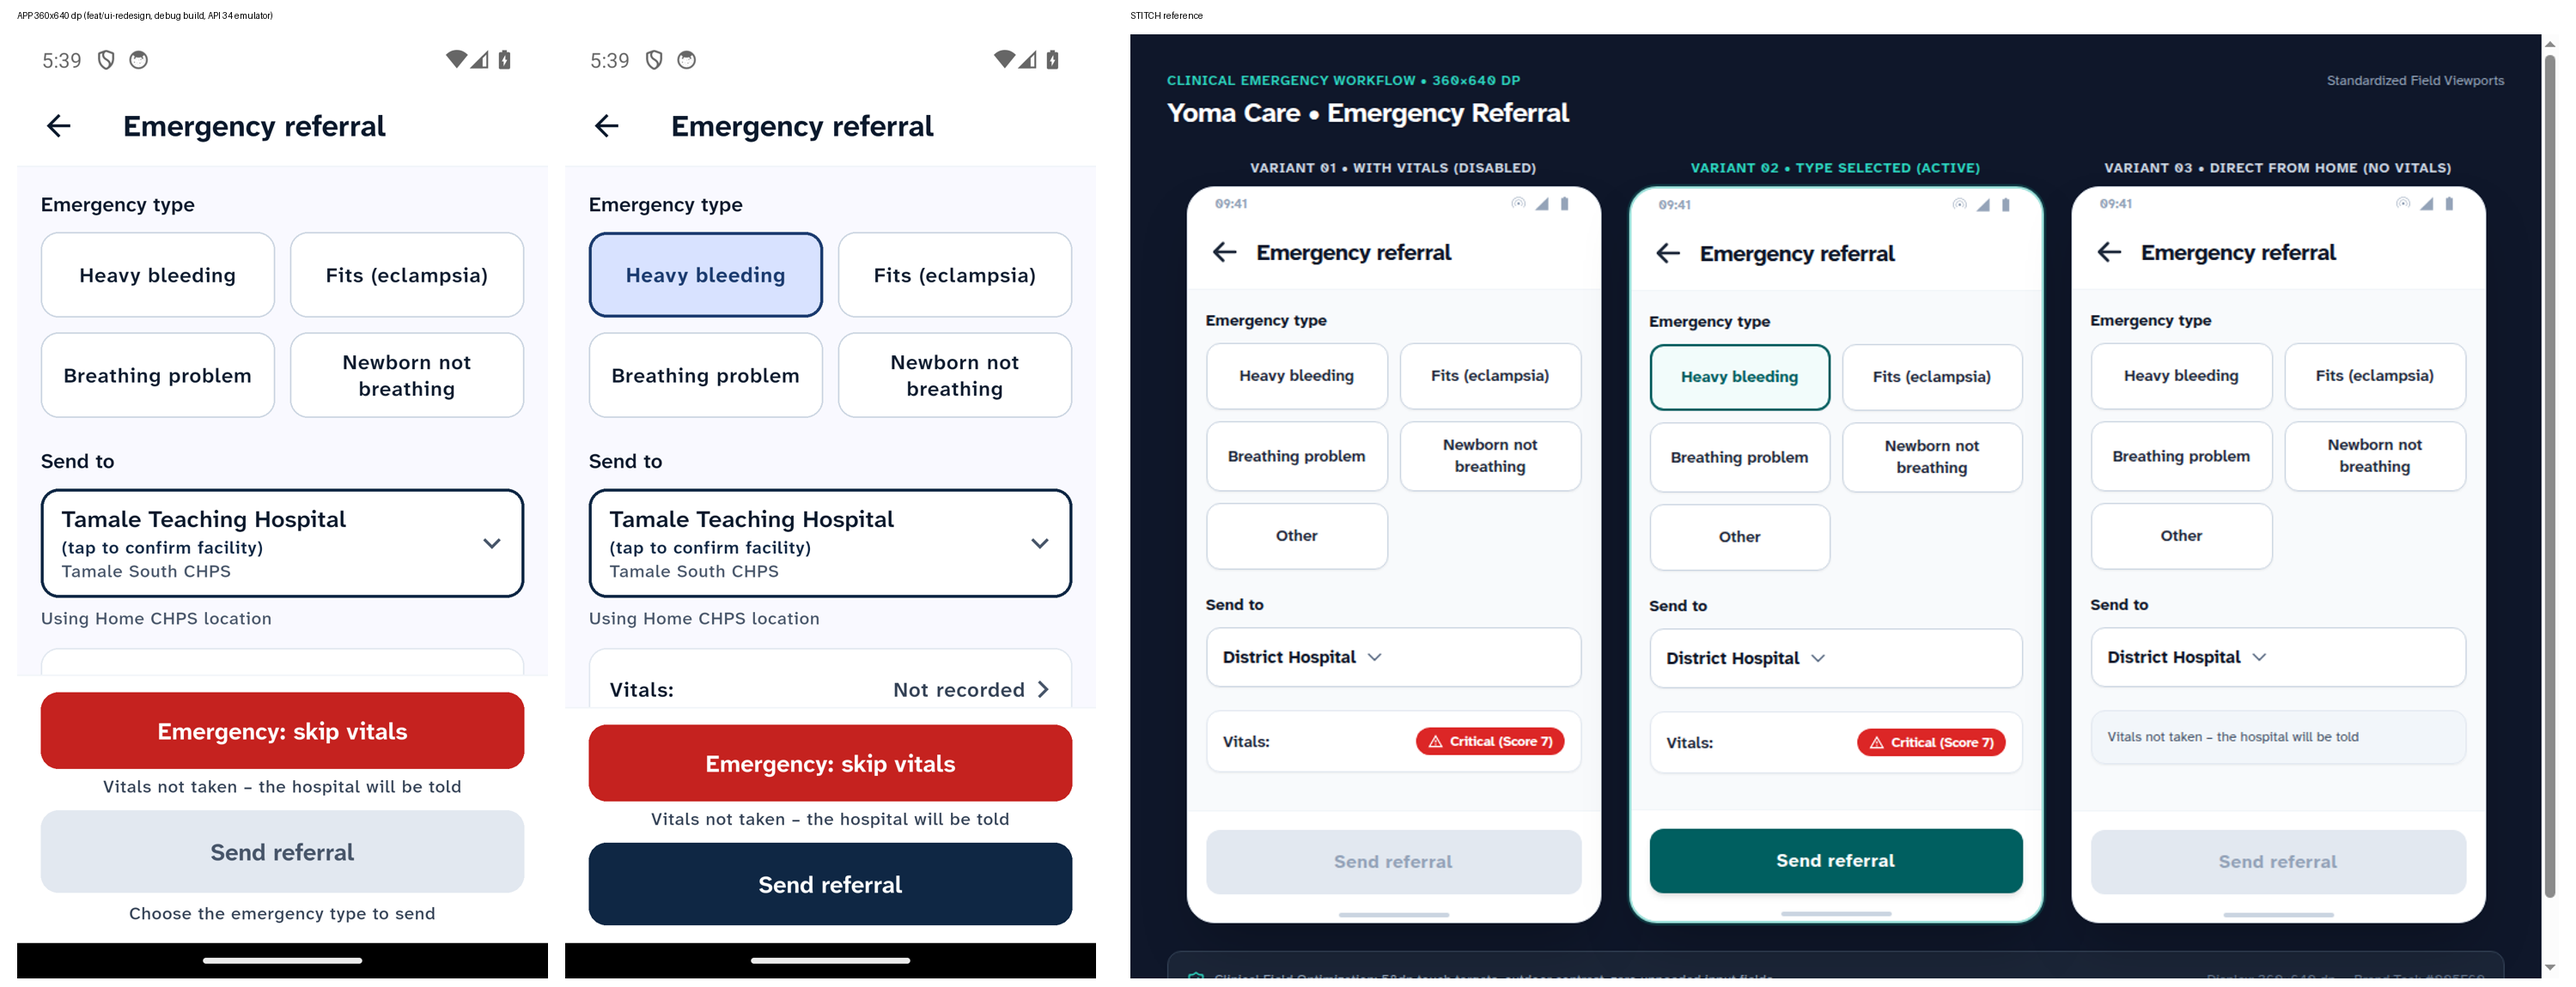
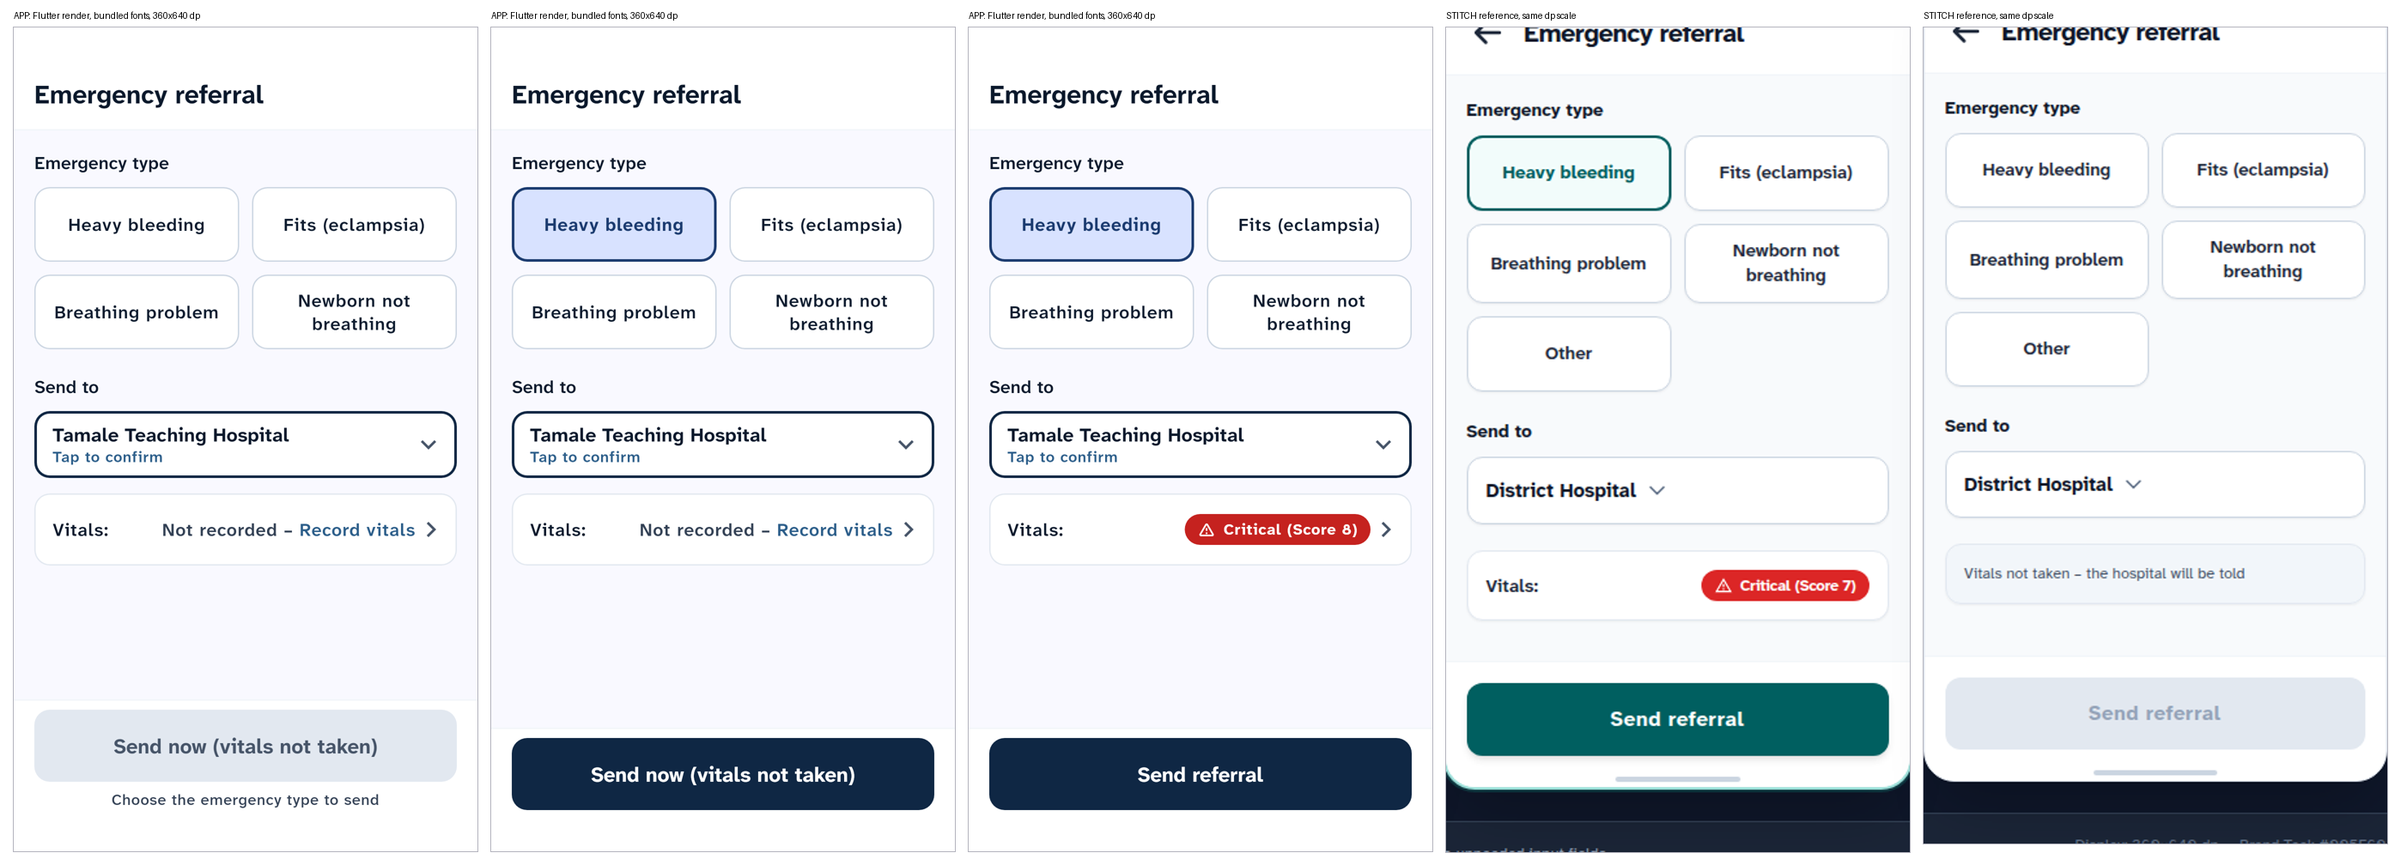
docs(ui): round 5 report and equal-scale fidelity side-by-sides
Side-by-sides for Home (both modes), Recording, Record vitals, the
referral form, Result, dispatch status and the breathing screens, with
each Stitch phone at the same dp scale as the app. App images are
Flutter renders with the bundled fonts at 360x640 dp: the emulator
crashed on cold boot this round (documented).

diff --git a/docs/audit/UI_REDESIGN.md b/docs/audit/UI_REDESIGN.md
@@ -813,3 +813,234 @@ Same branch. Flutter skills used: `dart-flutter:flutter-build-responsive-layout`
 4. "Call a driver instead" during the cascade: confirm step or hide?
 5. Risk words Critical / Elevated / Stable: confirm with clinical leads.
 6. Recording arc: time remaining (built) or time elapsed?
+
+## Round 5: round-4 screens fixed, decisions, fidelity on the remaining screens
+
+Same branch, with every commit pushed. Flutter skills used:
+
+- `dart-flutter:flutter-build-responsive-layout`
+- `flutter-fix-layout-issues`
+- `dart-use-pattern-matching`
+- `flutter-add-widget-test`
+- `dart-run-static-analysis`
+- `flutter-apply-architecture-best-practices`
+
+Commits, in order:
+
+| Step | Commit | What |
+|---|---|---|
+| 0 | `88f4688` | Record vitals: compact cards, count of required vitals, first-gap jump |
+| 0 | `36d903a` | Referral form: one bottom button, one-line Send to, vitals row link |
+| 0 | `be3afa1` | Home: heart-pulse icon |
+| 0 | `e1b2cc7` | Recording: rings reach the edge with breathing; test shot tool |
+| 1.1 | `665c763` | Acoustic Home: three actions; Not screened |
+| 1.2 | `94b4756` | Keep checking after FAILED until the late-claim window ends |
+| 1.3 | `8a1f9d9` | "Did a driver agree to come?" |
+| 1.4 | `6676785` | Sign-off sheet: risk words |
+| 2 | `c242e43`, `f169428`, `59b00d1` | Result, dispatch status and breathing fidelity; accessibility suite |
+| 3 | this commit | Side-by-sides, report |
+
+### Step 0: typography (no theme change, and why)
+
+The brief said the type scale was far larger than the designs. Measured at the same dp scale,
+it is not. The theme's sizes already equal the Clinical Field Resilience scale and the Stitch
+code:
+
+| Element | Stitch code | App theme |
+|---|---|---|
+| App bar title | `text-xl` 20 / bold | 20 / bold |
+| Card label (vitals, sections) | `text-base` 16 / semibold | 16 / w600 |
+| Buttons | `label-lg` 16 / bold | 16 / bold |
+| Chips | `text-[14px]` / semibold | 14 / w600 |
+| Small links ("Not measured") | `text-xs` 12 | 12 |
+
+The impression came from round 4's side-by-sides. That composer scaled both images to the same
+**pixel height**. The Record vitals reference is 360×1400 px, so it was drawn at about 44% of
+the app's scale and every app text looked twice as big.
+
+Every side-by-side in this round puts the Stitch phone at the **same dp scale** as the app
+(360 dp → 540 px). Real differences found that way were fixed where they were:
+
+- the vitals cards;
+- the result-card text, which was 16/14 against the design's 14/12;
+- the dispatch banner, which was 16 against the design's 14.
+
+Tap targets stay 48 dp through padding.
+
+### Step 0: Record vitals, form, Home, Recording
+
+**Record vitals:**
+
+- Label, a two-line "Not measured" and the value sit on one row. All six vitals show at
+  360×640; only the second row of consciousness chips needs about 68 dp of scroll.
+- On narrow screens or with large text, the layout is stacked (as before).
+- "See result – N left" counts blood pressure (one item), heart rate, breathing rate,
+  temperature and consciousness, so it shows 5 when nothing is filled. SpO₂ is never counted,
+  shows "(optional)", and may be left blank.
+- Blood pressure has one card and one "Not measured" for both fields. An empty pair gives one
+  message.
+- The "Normal adult band…" helper is gone. "From device ›" is a small link in the Heart rate
+  card.
+- See result stays enabled. With gaps, it scrolls to the first missing or wrong vital, marks
+  its card red and announces it by name (for example, "Consciousness missing. Choose a level
+  or tick Not measured.").
+- Form's own generic first-error announcement is switched off for this form, so a screen
+  reader hears one message.
+- Tests: `test/vitals_required_test.dart`.
+
+**Referral form:**
+
+- There is one bottom button: "Send referral" with vitals, or "Send now (vitals not taken)"
+  without. The second uses the existing skip-vitals path and hospital notice. The red button
+  is gone.
+- The button is disabled until a type is chosen.
+- The vitals row reads "Not recorded – Record vitals ›".
+- Send to is one line plus a small "Tap to confirm" until confirmed; the confirm behaviour is
+  unchanged. The origin line and the CHPS name are off the form; the picker still shows the
+  origin.
+- Tests: `test/referral_form_layout_test.dart`. Type chips, Send to and the vitals row scroll
+  fully clear of the bottom area at 360 dp and at 320 dp with 130% text.
+
+**Home:** the design's Lucide heart-pulse for Record vitals.
+
+**Recording:**
+
+- Before, the rings only reached the box edge at about −5 dBFS, so with real breathing they
+  stayed near the circle. They also faded to 8%.
+- Now:
+  - −55 to −20 dBFS spans the level;
+  - the rings travel the full way from about −30 dBFS, as in pulse frame 3;
+  - silence keeps them near the circle, as in frame 1;
+  - the faintest ring is about 18%.
+- The silence hint threshold is unchanged at −50 dBFS.
+- Tested with a fake microphone stream (`test/recording_pulse_test.dart`).
+- Audio was not played into an emulator microphone: the emulator would not start this round
+  (see Step 3).
+
+### Step 1: decisions
+
+1. **Acoustic Home** shows Emergency referral, Check breathing, Record vitals, in that order.
+   This order follows the decision; the design's Screen A puts Record vitals second.
+   - A referral without a breathing check sends `ai_screen_result` `NOT_SCREENED`. That covers
+     a referral straight from Home and one via Record vitals from Home.
+   - The form says "No breathing check – the hospital will be told".
+   - The hospital SMS adds "Breathing check: not screened" (`tests/test_not_screened.py`).
+   - MOEWS-only builds are unchanged.
+2. **After FAILED:**
+   - `GET /dispatch/{id}` returns `late_claim_until`: `initiated_at` plus
+     `LATE_CLAIM_WINDOW_MINUTES` (45), in UTC. The orchestrator now uses the same function to
+     accept late claims.
+   - Until that time, the status screen checks every 30 s and says "Still checking: a driver
+     can accept until 12:42".
+   - A late acceptance shows as accepted ("Accepted after the alerts had stopped").
+   - After the window it stops.
+3. **Call a driver instead:**
+   - There is no confirm before the call.
+   - A tel: call from the status screen before any driver accepted arms one question for when
+     the CHO returns to the app: "Did a driver agree to come?". Yes runs the existing cancel;
+     No keeps waiting.
+   - It is asked once per call.
+4. **Critical / Elevated / Stable** is now question 6 in `docs/PARAMETERS_SIGNOFF.md`.
+
+### Step 2: fidelity on the remaining screens
+
+Fixed:
+
+- **Result:**
+  - Buttons are in sentence case.
+  - Stable's secondary button is "Confirm referral".
+  - Stable lists BP, heart rate, breathing rate and temperature "– normal" with grey dots.
+  - The Incomplete card has no subtitle.
+  - Missing systolic and diastolic are one "Blood pressure" row.
+- **Dispatch status:**
+  - With no driver, not sent yet or no connection, the banner and the Call/SMS rows come
+    first.
+  - Rows are compact: name and role on the left, Call and SMS on the right, drivers first,
+    then the hospital.
+  - The current step is in the tertiary colour with a halo.
+  - The driver is shown in a bordered card.
+  - There is more space between steps.
+  - The spinner line and the raw "Request: …" id are removed.
+  - The banner text is 14 bold.
+- **Breathing:**
+  - The dashed border on "Couldn't tell" was painted behind the white fill and never showed;
+    it is now drawn in front.
+  - Card text is at the design's sizes.
+  - "settings" is lower case.
+- **Copy:** no raw codes, plurals or dates were found on these screens beyond the "Request:"
+  id, which is removed.
+
+Differences left on purpose. Each is a decision above or an earlier documented correction:
+
+1. **Colour:** the design-system palette (round 4) instead of the renders' teal, and the
+   design-system amber.
+2. **MOEWS name** under the risk word, and the disclaimer line (round 1, for CHO
+   familiarity and safety).
+3. **Critical/Elevated:** the design's bottom area repeats the Why list (a design bug); the app
+   has its buttons there.
+4. **Timeline wording:**
+   - Future-tense labels and the darker future labels (round 3, contrast and wording rules).
+   - Times follow the phone's 12/24-hour setting. The shots show "9:12 AM" because the
+     renderer's locale is 12-hour.
+5. **Dispatch extras:**
+   - Ref, "Going to: <hospital>" (the destination changes on a diversion), "Back to Home"
+     (the design gives no way back) and "Cancel referral" (round-3 brief).
+   - "Contacts last updated" stays, because the rows are a cached copy.
+6. **Analysing subtitle:** "You can keep using the phone." instead of "Analyzing breath rate
+   and sound patterns". The model does not measure breath rate, so the design's line would
+   claim something false.
+7. **Breathing result footer:** the Ready screen's "This is advice only…" instead of "Field
+   guidance: Results do not replace nurse auscultation" (CHOs are not nurses).
+8. **Dashed border:** grey-500 instead of slate-300, for 3:1 non-text contrast.
+9. **MOEWS Home Emergency button:** sized to Screen A (round 4) rather than the older
+   home-minimal render.
+
+### Accessibility
+
+The semantics-tree check (`expectSeparateNamedControls`), the 48 dp and label guidelines and
+rendered contrast now also run on:
+
+- Analysing;
+- both breathing results;
+- hospital confirmed and arrived;
+- the late acceptance;
+- "Did a driver agree to come?";
+- acoustic Home with three actions, offline.
+
+These join every screen from rounds 1–4.
+
+### Step 3: side-by-sides and checks
+
+- **Side-by-sides:** in `docs/testing/screenshots/ui-redesign/fidelity/`, replacing round 4's:
+  1. Home MOEWS (offline);
+  2. Home acoustic;
+  3. Recording against pulse frames 1 and 3;
+  4. Record vitals (empty, and after See result with gaps);
+  5. Referral form (no type, type chosen, vitals recorded);
+  6. Result (four variants and the advisory row);
+  7. Dispatch status (waiting, accepted, confirmed, arrived, no driver, late acceptance, "Did
+     a driver agree?");
+  8. Breathing (ready, analysing, both results, microphone blocked).
+
+  Every Stitch phone is at the same dp scale as the app.
+- **How the app images were made:** the API 34 emulator crashed during cold boot three times
+  (exit 139). That happened on the NVIDIA GPU with and without Vulkan, while KVM and NVIDIA
+  OpenGL both checked out fine. So the app images are **Flutter renders**: the same engine,
+  the bundled Atkinson Hyperlegible Next and Material Icons, at 360×640 dp ×3. They come from
+  `test/shots/*_shot.dart`, which is not part of the default test run. They have no system
+  status bar, and the back arrow is missing because each screen is shown as the first route.
+  A device pass is still owed.
+- **`flutter analyze`:** no issues.
+- **`flutter test`:** 509 passed (default), 510 passed (`MOEWS_ONLY=false`).
+- **Backend:** `test_not_screened`, `test_dispatch_step_times` (with `late_claim_until`),
+  `test_skip_vitals`, `test_hospital_privacy`, `test_diversion` and `test_parameters` pass
+  (run with `AT_WEBHOOK_SECRET=`).
+
+### Open questions (round 5)
+
+1. Why does the API 34 emulator now crash during cold boot (exit 139)? It worked in round 4.
+   Needs a look before the device pass.
+2. Should "Going to: <hospital>" and "Back to Home" on the status screen stay? The design has
+   neither.
+3. The design's "Driver A – motorbike ambulance" needs the vehicle from the API (round 3,
+   conflict 2).
